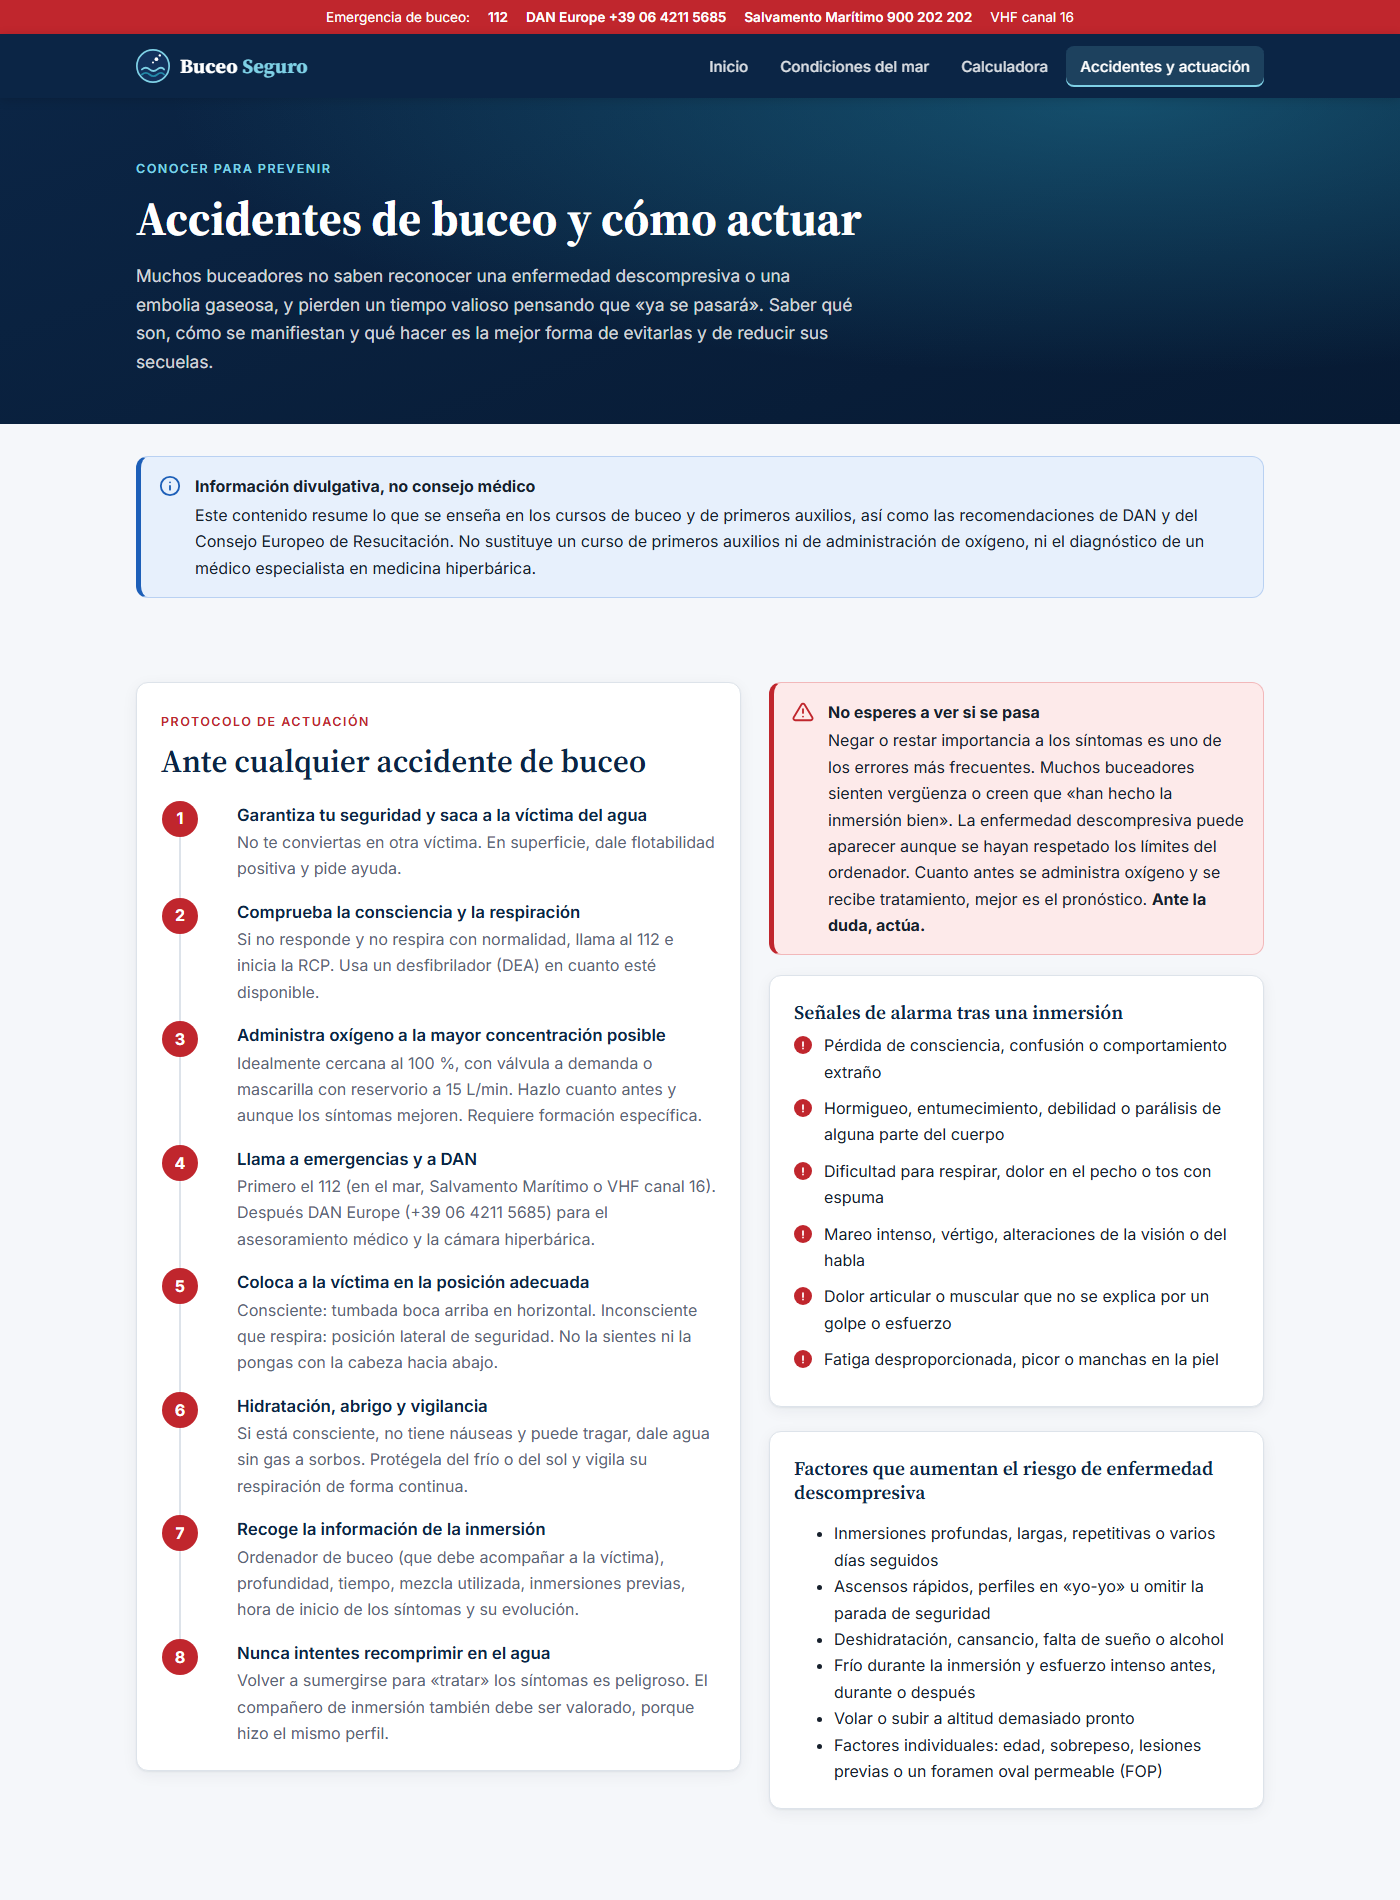
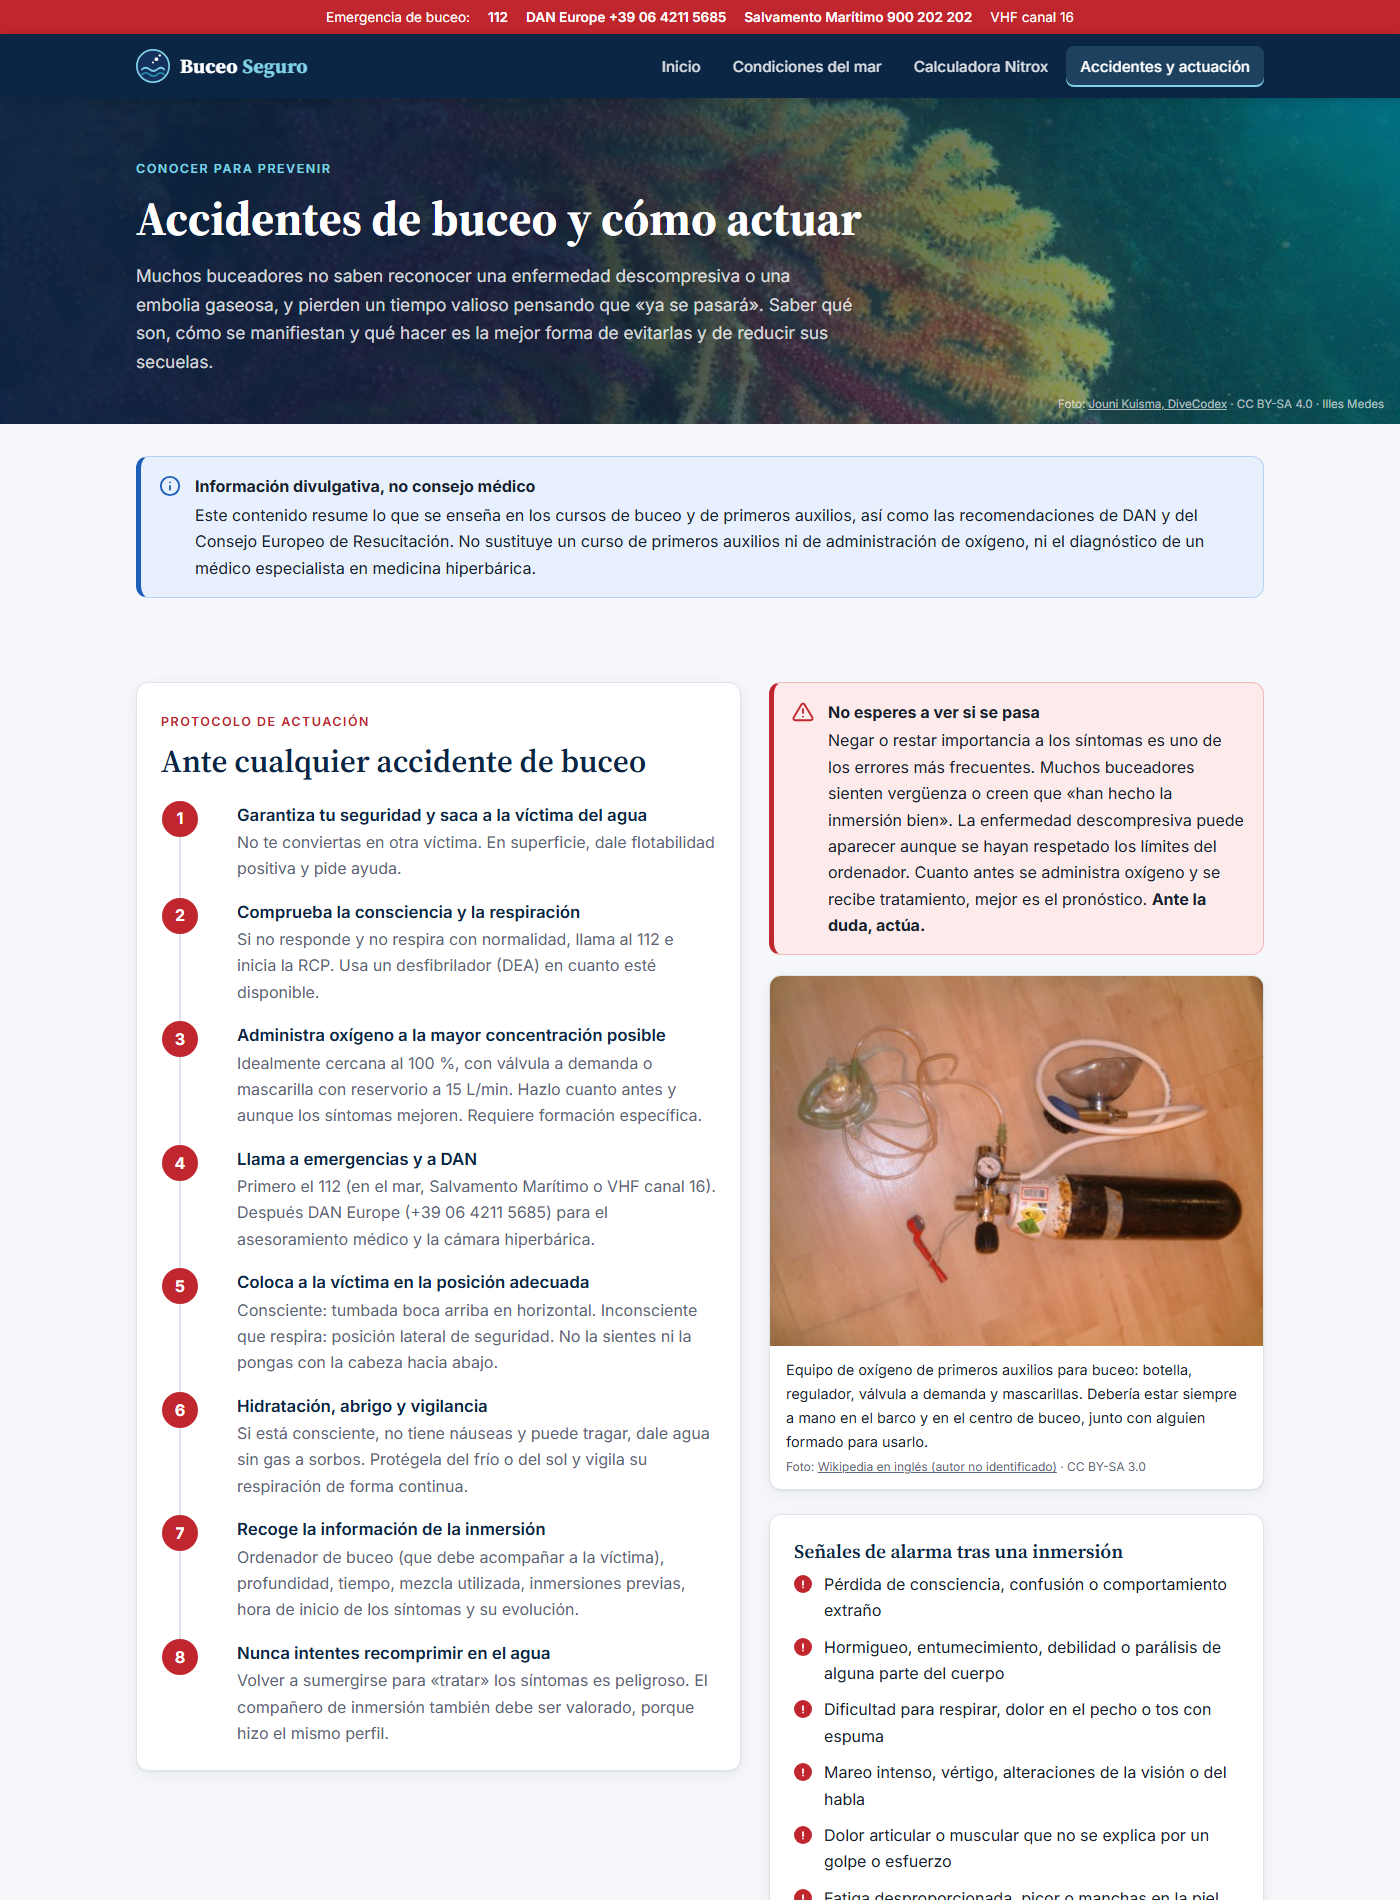
Añadir fotografías para hacer la web más visual
- Fotos de fondo en las cabeceras de las cuatro páginas
- Imagen en cada tarjeta de curso SSI
- Parada de seguridad en el inicio; kit de oxígeno, parada de seguridad,
  cámara hiperbárica y medusa en la guía de accidentes
- Todas de Wikimedia Commons con licencia libre, con autor y licencia
  en cada imagen y en el README. No se ha eliminado texto.

Changed region(s): [[0.5529, 0.4968, 0.9214, 1.0], [0.3686, 0.0311, 1.0, 0.2484], [0.3379, 0.1863, 0.3993, 0.2484]]

diff --git a/index.html b/index.html
@@ -14,7 +14,9 @@
 <body data-page="inicio">
 
 <main id="main">
-    <section class="page-hero hero-home">
+    <section class="page-hero hero-home has-photo">
+        <img class="hero-bg" src="assets/img/fotos/hero-inicio.jpg" alt="">
+        <span class="hero-credit">Foto: <a href="https://commons.wikimedia.org/wiki/File:Dusky_grouper_(Epinephelus_marginatus),_Tasco_Petit,_Medes_Islands,_Spain.jpg" target="_blank" rel="noopener">Jouni Kuisma, DiveCodex</a> · CC BY-SA 4.0 · Illes Medes</span>
         <div class="container">
             <span class="eyebrow">Divulgación · Seguridad · Prevención</span>
             <h1>Bucear con conocimiento<br>es bucear con seguridad</h1>
@@ -100,6 +102,13 @@
                     </ul>
                 </article>
             </div>
+
+            <figure class="photo wide mt-3">
+                <img src="assets/img/fotos/parada-ancla.jpg" alt="Dos buceadores realizan la parada de seguridad sujetos al cabo del ancla de una embarcación" loading="lazy">
+                <figcaption>La parada de seguridad de 3 a 5 minutos a unos 5 m, aquí sujetos al cabo del ancla, es uno de los
+                    hábitos más sencillos y eficaces para reducir el riesgo de enfermedad descompresiva.
+                    <span class="photo-credit">Foto: <a href="https://commons.wikimedia.org/wiki/File:Sicherheitsstop_an_der_Ankerkette.jpg" target="_blank" rel="noopener">Oetzipopoetzi</a> · CC BY-SA 3.0</span></figcaption>
+            </figure>
         </div>
     </section>
 
@@ -178,6 +187,10 @@
 
             <div class="grid grid-courses">
                 <article class="card course-card">
+                    <div class="course-media media">
+                        <img src="assets/img/fotos/curso-nitrox.jpg" alt="Botellas de buceo con la etiqueta amarilla y verde de Enriched Air Nitrox en una embarcación" loading="lazy">
+                        <span class="media-credit">Foto: <a href="https://commons.wikimedia.org/wiki/File:Nitrox_cylinders_on_a_dive_boat,_Koh_Tao,_Thailand.jpg" target="_blank" rel="noopener">Eli Duke</a> · CC BY-SA 2.0</span>
+                    </div>
                     <span class="tag">Especialidad</span>
                     <h3>Enriched Air Nitrox</h3>
                     <p class="course-for">Para alargar tu tiempo de fondo</p>
@@ -185,6 +198,10 @@
                         al oxígeno. Ganas tiempo sin descompresión e intervalos en superficie más cómodos.</p>
                 </article>
                 <article class="card course-card">
+                    <div class="course-media media">
+                        <img src="assets/img/fotos/curso-navigation.jpg" alt="Buceador consultando su brújula bajo el agua" loading="lazy">
+                        <span class="media-credit">Foto: <a href="https://commons.wikimedia.org/wiki/File:US_Navy_110722-N-XD935-247_Navy_Diver_2nd_Class_Justin_McMillen_checks_his_underwater_compass_as_he_makes_his_way_to_a_designated_area_during_joint.jpg" target="_blank" rel="noopener">U.S. Navy</a> · Dominio público</span>
+                    </div>
                     <span class="tag">Especialidad</span>
                     <h3>Navigation</h3>
                     <p class="course-for">Para no perderte bajo el agua</p>
@@ -192,6 +209,10 @@
                         sin ascensos innecesarios ni largos trayectos nadando en superficie.</p>
                 </article>
                 <article class="card course-card">
+                    <div class="course-media media">
+                        <img src="assets/img/fotos/curso-buoyancy.jpg" alt="Buceador en posición horizontal y flotabilidad neutra sobre un fondo de arena" loading="lazy">
+                        <span class="media-credit">Foto: <a href="https://commons.wikimedia.org/wiki/File:Discover_Scuba_Diving_--_St._Croix,_US_Virgin_Islands.jpg" target="_blank" rel="noopener">Summitandbeach</a> · CC BY-SA 4.0</span>
+                    </div>
                     <span class="tag">Especialidad</span>
                     <h3>Perfect Buoyancy</h3>
                     <p class="course-for">Para bucear con menos esfuerzo</p>
@@ -199,6 +220,10 @@
                         flotabilidad también evita ascensos involuntarios y protege el fondo marino.</p>
                 </article>
                 <article class="card course-card">
+                    <div class="course-media media">
+                        <img src="assets/img/fotos/curso-deep.jpg" alt="Dos buceadores en aguas azules profundas, con las burbujas subiendo hacia la superficie" loading="lazy">
+                        <span class="media-credit">Foto: <a href="https://commons.wikimedia.org/wiki/File:Diving_safety_stop.jpg" target="_blank" rel="noopener">pratts (Flickr)</a> · CC BY-SA 2.0</span>
+                    </div>
                     <span class="tag">Especialidad</span>
                     <h3>Deep Diving</h3>
                     <p class="course-for">Para bajar de los 18 m con seguridad</p>
@@ -206,6 +231,10 @@
                         no descompresión y procedimientos de emergencia en profundidad.</p>
                 </article>
                 <article class="card course-card">
+                    <div class="course-media media">
+                        <img src="assets/img/fotos/curso-rescue.jpg" alt="Prácticas de rescate acuático: rescatadores remolcan a una víctima simulada en una piscina" loading="lazy">
+                        <span class="media-credit">Foto: <a href="https://commons.wikimedia.org/wiki/File:Medium_size_rescue_swimming.jpg" target="_blank" rel="noopener">Ken Hall</a> · CC BY 2.0</span>
+                    </div>
                     <span class="tag">Seguridad</span>
                     <h3>Stress &amp; Rescue</h3>
                     <p class="course-for">Para prevenir y saber responder</p>
@@ -213,6 +242,10 @@
                         y aplicar técnicas de rescate dentro y fuera del agua.</p>
                 </article>
                 <article class="card course-card">
+                    <div class="course-media media">
+                        <img src="assets/img/fotos/curso-react.jpg" alt="Maniquíes de entrenamiento de reanimación cardiopulmonar en su bolsa de transporte" loading="lazy">
+                        <span class="media-credit">Foto: <a href="https://commons.wikimedia.org/wiki/File:Laerdal_Little_Family_QCPR_training_manikins_in_carrying_bag,_Bosnia_and_Herzegovina_(2026)-bs.jpg" target="_blank" rel="noopener">Minja Klarić</a> · CC BY-SA 4.0</span>
+                    </div>
                     <span class="tag">Primeros auxilios</span>
                     <h3>React Right</h3>
                     <p class="course-for">Para actuar en los primeros minutos</p>

diff --git a/accidentes.html b/accidentes.html
@@ -14,7 +14,9 @@
 <body data-page="accidentes">
 
 <main id="main">
-    <section class="page-hero">
+    <section class="page-hero has-photo">
+        <img class="hero-bg" src="assets/img/fotos/hero-accidentes.jpg" alt="">
+        <span class="hero-credit">Foto: <a href="https://commons.wikimedia.org/wiki/File:Violescent_sea-whip_(Paramuricea_clavata),_Ferranelles,_Medes_Islands,_Spain.jpg" target="_blank" rel="noopener">Jouni Kuisma, DiveCodex</a> · CC BY-SA 4.0 · Illes Medes</span>
         <div class="container">
             <span class="eyebrow">Conocer para prevenir</span>
             <h1>Accidentes de buceo y cómo actuar</h1>
@@ -83,6 +85,14 @@
                             actúa.</strong></p>
                     </div>
                 </div>
+
+                <figure class="photo mb-3">
+                    <img src="assets/img/fotos/kit-oxigeno.jpg" alt="Equipo de oxígeno de primeros auxilios: botella con regulador, válvula a demanda y mascarillas" loading="lazy">
+                    <figcaption>Equipo de oxígeno de primeros auxilios para buceo: botella, regulador, válvula a demanda y
+                        mascarillas. Debería estar siempre a mano en el barco y en el centro de buceo, junto con alguien
+                        formado para usarlo.
+                        <span class="photo-credit">Foto: <a href="https://commons.wikimedia.org/wiki/File:O2kit.jpg" target="_blank" rel="noopener">Wikipedia en inglés (autor no identificado)</a> · CC BY-SA 3.0</span></figcaption>
+                </figure>
 
                 <div class="card mb-3">
                     <h3>Señales de alarma tras una inmersión</h3>
@@ -192,6 +202,20 @@
                                     <li>Nunca recomprimir en el agua.</li>
                                 </ul>
                             </div>
+                        </div>
+                        <div class="grid grid-2">
+                            <figure class="photo">
+                                <img src="assets/img/fotos/parada-seguridad.jpg" alt="Buceadores realizando la parada de seguridad junto a un cabo en aguas azules" loading="lazy">
+                                <figcaption><strong>Prevención:</strong> ascenso lento y parada de seguridad con referencia
+                                    visual, como un cabo, para controlar la profundidad.
+                                    <span class="photo-credit">Foto: <a href="https://commons.wikimedia.org/wiki/File:Divers_at_safety_stop_P9070239.JPG" target="_blank" rel="noopener">Peter Southwood</a> · CC BY-SA 4.0</span></figcaption>
+                            </figure>
+                            <figure class="photo">
+                                <img src="assets/img/fotos/camara-hiperbarica.jpg" alt="Interior de una cámara hiperbárica multiplaza con asientos para varios pacientes" loading="lazy">
+                                <figcaption><strong>Tratamiento:</strong> la cámara hiperbárica vuelve a aumentar la presión
+                                    para reducir las burbujas mientras el paciente respira oxígeno.
+                                    <span class="photo-credit">Foto: <a href="https://commons.wikimedia.org/wiki/File:Hyperbaric_Chamber_At_Sagol_Center_For_Hyperbaric_Medicine_And_Research.jpg" target="_blank" rel="noopener">Mediajen</a> · CC0</span></figcaption>
+                            </figure>
                         </div>
                     </div>
                 </details>
@@ -779,6 +803,12 @@
                                 </div>
                             </div>
                         </div>
+                        <figure class="photo wide mt-3">
+                            <img src="assets/img/fotos/medusa.jpg" alt="Medusa luminiscente Pelagia noctiluca de color rosado sobre el fondo marino" loading="lazy">
+                            <figcaption><em>Pelagia noctiluca</em>, una de las medusas más frecuentes en el Mediterráneo y
+                                responsable de muchas picaduras en buceadores y bañistas.
+                                <span class="photo-credit">Foto: <a href="https://commons.wikimedia.org/wiki/File:Pelagia_noctiluca_(Sardinia).jpg" target="_blank" rel="noopener">Hans Hillewaert</a> · CC BY-SA 4.0</span></figcaption>
+                        </figure>
                     </div>
                 </details>
             </div>

diff --git a/assets/css/styles.css b/assets/css/styles.css
@@ -458,9 +458,60 @@ table.data.wrap td { white-space: normal; }
 .contact-card .number { font-size: 1.5rem; font-weight: 700; color: var(--danger); font-variant-numeric: tabular-nums; text-decoration: none; }
 .contact-card .number:hover { text-decoration: underline; color: var(--danger); }
 
+/* ---------- Fotografías ---------- */
+.page-hero.has-photo { position: relative; isolation: isolate; overflow: hidden; }
+.hero-bg { position: absolute; inset: 0; width: 100%; height: 100%; object-fit: cover; z-index: -2; }
+.page-hero.has-photo::before {
+    content: '';
+    position: absolute;
+    inset: 0;
+    z-index: -1;
+    background: linear-gradient(100deg, rgba(11, 37, 69, .94) 0%, rgba(7, 26, 51, .78) 45%, rgba(7, 26, 51, .25) 100%);
+}
+.hero-credit {
+    position: absolute;
+    right: 16px;
+    bottom: 10px;
+    z-index: 1;
+    font-size: .72rem;
+    color: rgba(255, 255, 255, .65);
+}
+.hero-home .hero-credit { bottom: 72px; }
+.hero-credit a { color: inherit; }
+
+.photo {
+    margin: 0;
+    background: var(--surface);
+    border: 1px solid var(--line);
+    border-radius: var(--radius);
+    overflow: hidden;
+    box-shadow: var(--shadow);
+}
+.photo img { display: block; width: 100%; aspect-ratio: 4 / 3; object-fit: cover; }
+.photo.wide img { aspect-ratio: 21 / 8; }
+.photo figcaption { padding: 12px 16px; font-size: .9rem; }
+.photo-credit { display: block; margin-top: 4px; font-size: .75rem; color: var(--muted); }
+.photo-credit a { color: inherit; }
+@media (max-width: 640px) { .photo.wide img { aspect-ratio: 16 / 9; } }
+
+.media { position: relative; }
+.media-credit {
+    position: absolute;
+    right: 6px;
+    bottom: 6px;
+    padding: 2px 7px;
+    border-radius: 4px;
+    background: rgba(7, 26, 51, .65);
+    color: #fff;
+    font-size: .68rem;
+}
+.media-credit a { color: inherit; }
+
 /* ---------- Formación SSI ---------- */
+.course-media { margin: -24px -24px 16px; }
+.course-media img { display: block; width: 100%; aspect-ratio: 16 / 9; object-fit: cover; }
 .grid-courses { grid-template-columns: repeat(auto-fit, minmax(min(320px, 100%), 1fr)); }
-.course-card { display: flex; flex-direction: column; }
+.course-card { display: flex; flex-direction: column; overflow: hidden; }
 .course-card .tag { align-self: flex-start; }
 .course-card h3 { margin: 10px 0 .3em; }
 .course-card .course-for { font-size: .85rem; color: var(--ocean-600); font-weight: 600; margin-bottom: .5em; }

diff --git a/condiciones.html b/condiciones.html
@@ -15,7 +15,9 @@
 <body data-page="condiciones">
 
 <main id="main">
-    <section class="page-hero">
+    <section class="page-hero has-photo">
+        <img class="hero-bg" src="assets/img/fotos/hero-condiciones.jpg" alt="">
+        <span class="hero-credit">Foto: <a href="https://commons.wikimedia.org/wiki/File:Rocky_coast_and_Mediterranean_Sea_Costa_dels_Pins.jpg" target="_blank" rel="noopener">Steffen Mokosch</a> · CC BY-SA 4.0</span>
         <div class="container">
             <span class="eyebrow">Antes de entrar al agua</span>
             <h1>Condiciones del mar</h1>

diff --git a/calculadora.html b/calculadora.html
@@ -14,7 +14,9 @@
 <body data-page="calculadora">
 
 <main id="main">
-    <section class="page-hero">
+    <section class="page-hero has-photo">
+        <img class="hero-bg" src="assets/img/fotos/hero-calculadora.jpg" alt="">
+        <span class="hero-credit">Foto: <a href="https://commons.wikimedia.org/wiki/File:Nitrox_cylinders_on_a_dive_boat,_Koh_Tao,_Thailand.jpg" target="_blank" rel="noopener">Eli Duke</a> · CC BY-SA 2.0</span>
         <div class="container">
             <span class="eyebrow">Aire enriquecido</span>
             <h1>Calculadora Nitrox</h1>

diff --git a/README.md b/README.md
@@ -101,6 +101,14 @@ Web personal de un instructor SSI: no es una web oficial de SSI y no tiene relac
 ## 📄 Créditos
 
 - Datos meteorológicos y marinos: [Open-Meteo](https://open-meteo.com) (CC BY 4.0).
+- Fotografías de [Wikimedia Commons](https://commons.wikimedia.org), con licencias libres. Cada foto muestra su autor y su licencia en la propia página:
+  - Cabecera de inicio y de accidentes: Jouni Kuisma, DiveCodex (CC BY-SA 4.0), Illes Medes
+  - Cabecera de condiciones: Steffen Mokosch (CC BY-SA 4.0)
+  - Cabecera de la calculadora y curso Enriched Air Nitrox: Eli Duke (CC BY-SA 2.0)
+  - Navigation: U.S. Navy (dominio público) · Perfect Buoyancy: Summitandbeach (CC BY-SA 4.0) · Deep Diving: pratts (CC BY-SA 2.0)
+  - Stress & Rescue: Ken Hall (CC BY 2.0) · React Right: Minja Klarić (CC BY-SA 4.0)
+  - Paradas de seguridad: Oetzipopoetzi (CC BY-SA 3.0) y Peter Southwood (CC BY-SA 4.0)
+  - Cámara hiperbárica: Mediajen (CC0) · Kit de oxígeno: Wikipedia en inglés (CC BY-SA 3.0) · Medusa: Hans Hillewaert (CC BY-SA 4.0)
 - Mapa: © [colaboradores de OpenStreetMap](https://www.openstreetmap.org/copyright).
 - Referencias del contenido: DAN Europe, Consejo Europeo de Resucitación (ERC) y límites de exposición al oxígeno de NOAA.
 - Autor: John Quispe Carrió
